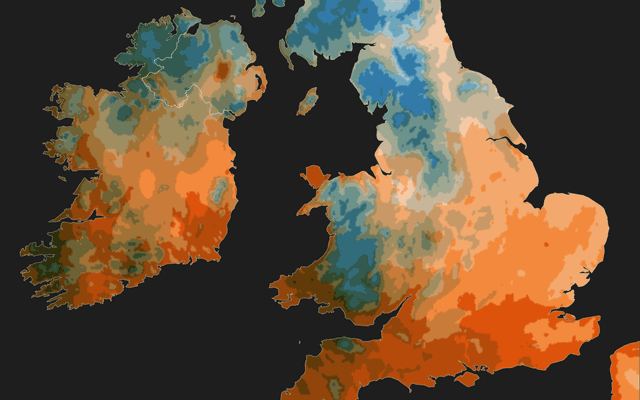
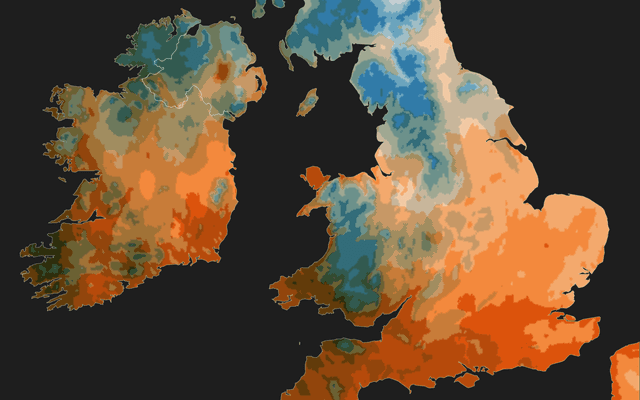
flip schemes
(thanks to Maarten Lambrechts for pointing this out… I don't remember when I accidentally flipped it)

diff --git a/src/plot/bivariate-map.md b/src/plot/bivariate-map.md
@@ -73,7 +73,7 @@ The bivariate color scale takes _n_ quantiles of temperature and _n_ quantiles o
 const n = 5;
 ```
 
-The colors are a mix of oranges and blues. To mix the colors, we use a formula similar to the `multiply` mix-blend mode, but tweak it a little to make the colors a bit more lively.
+The colors are a mix of oranges (for temperatures) and blues (for precipitation). To mix the colors, we use a formula similar to the `multiply` mix-blend mode, but tweak it a little to make the colors a bit more lively.
 
 ```js
 display(Plot.cellX([...oranges, null, ...blues], {rx: 4, stroke: "currentColor"}).plot({width: (2 * n + 1) * 20, height: 18, axis: null}))
@@ -85,7 +85,7 @@ const blues = d3.schemeBlues[n + 1].slice(0, -1);
 
 const color = {
   domain: d3.range(n * n),
-  range: d3.cross(oranges, blues).map(mixblend)
+  range: d3.cross(blues, oranges).map(mixblend)
 };
 
 function mixblend([a, b]) {
